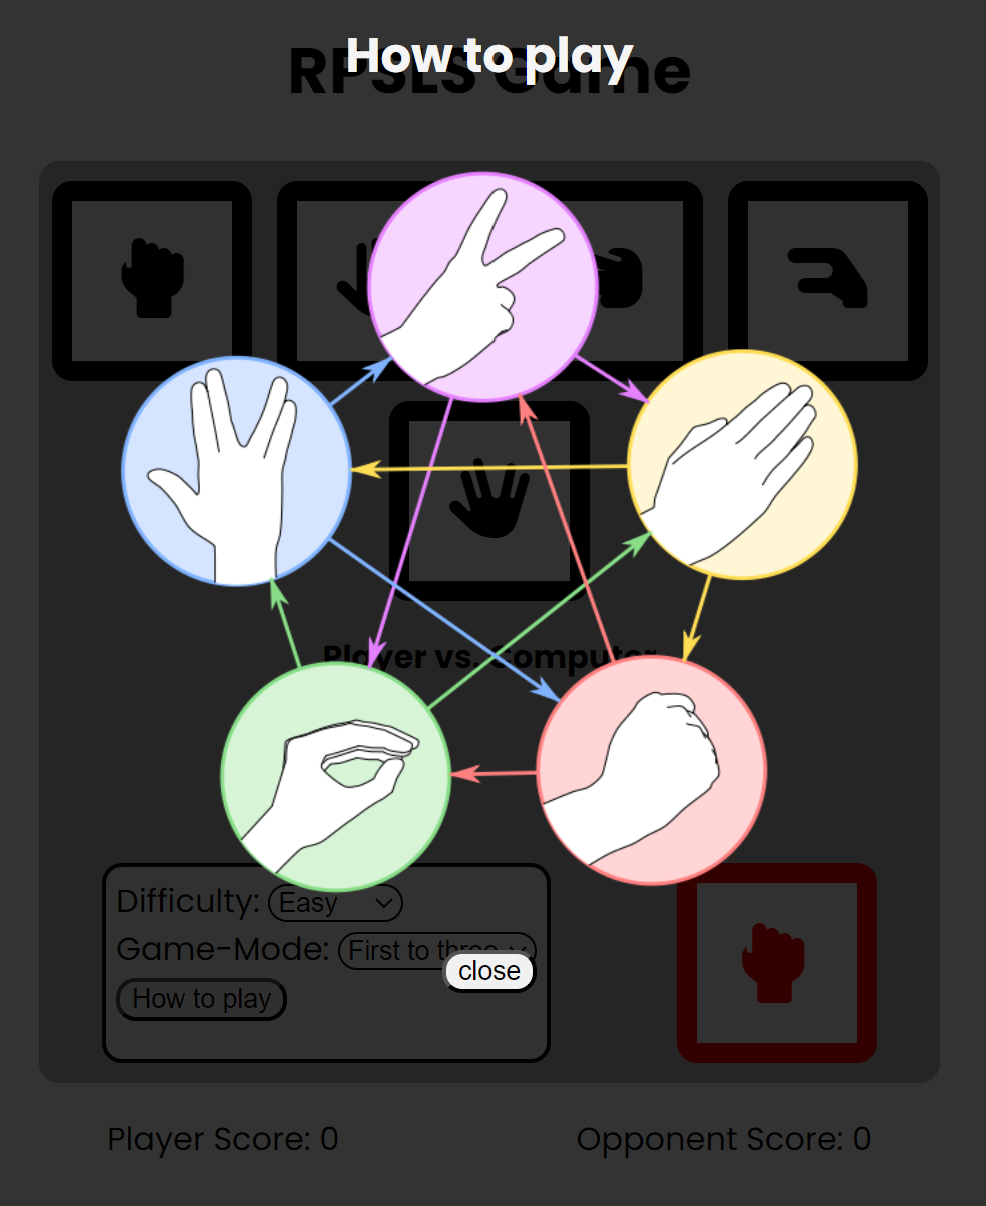
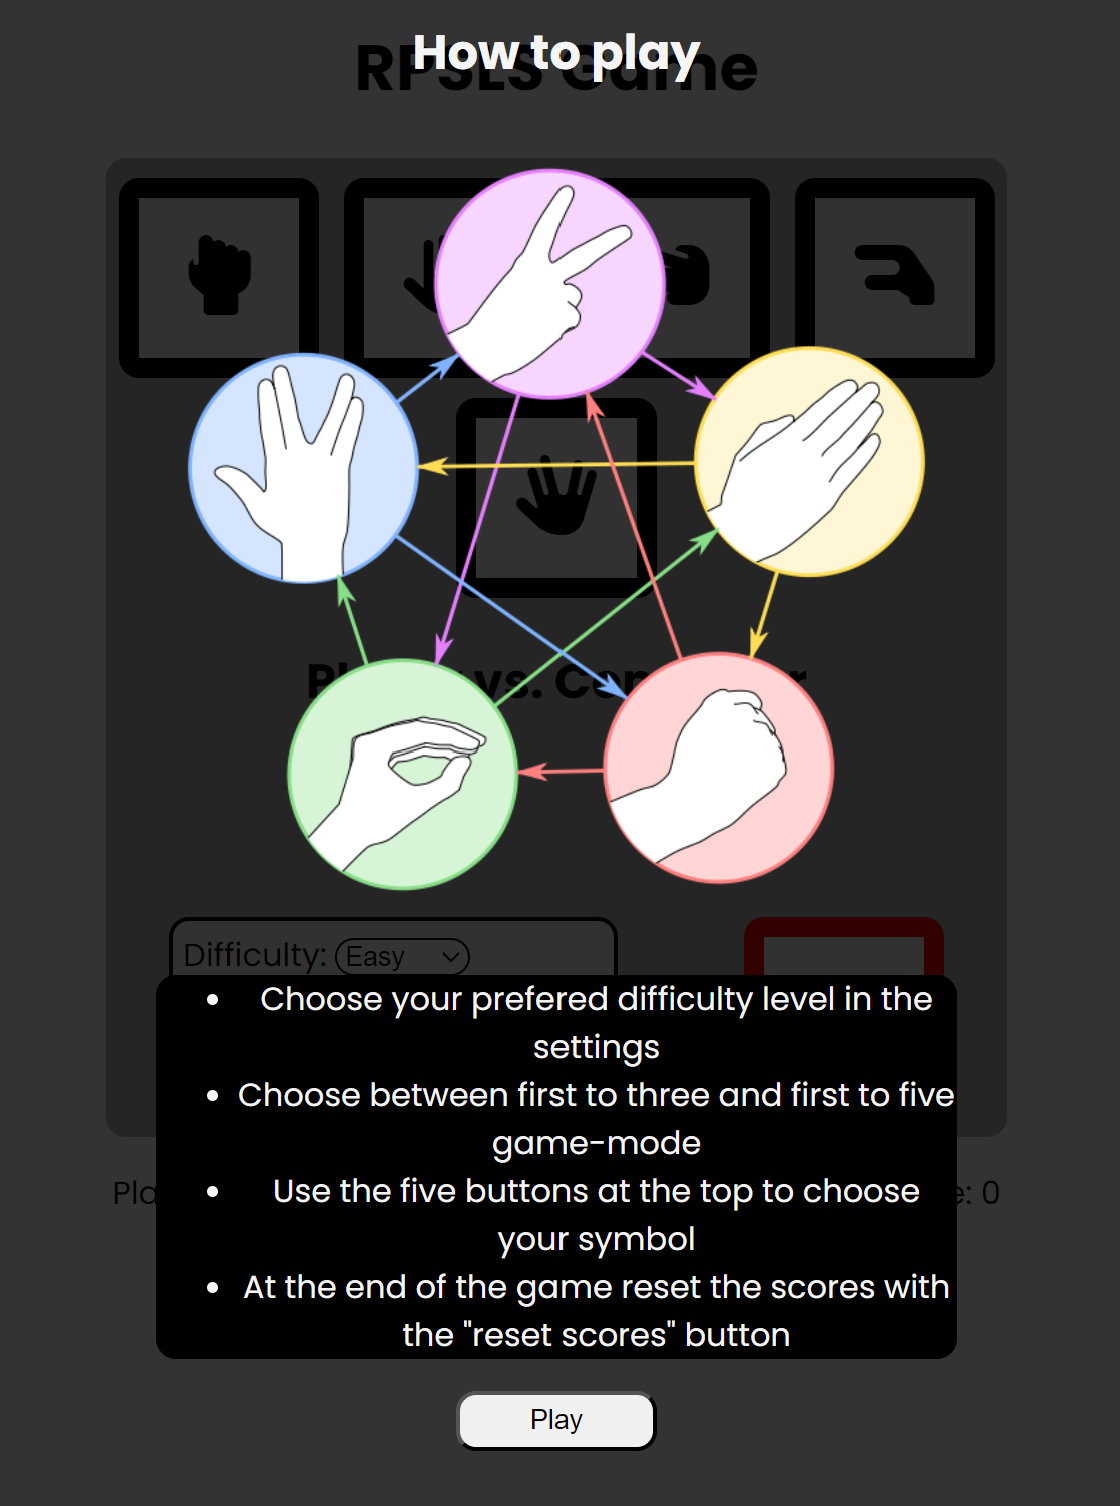
Change some  screenshots in the readme.md

diff --git a/README.md b/README.md
@@ -31,7 +31,7 @@ The [RPSLS Game](https://goldziege.github.io/rps-game/) is a web application var
 #### Settings
 - The settings give the player the opportunity to choose either easy or difficult as the computers difficulty setting.
 - It also features two game-modes. "First to three" and "First to five".
-- There is a "How to play" button in the setttings-area that opens up a modal. The modal shows a picture that tells the player which symbol beats which symbol.
+- There is a "How to play" button in the setttings-area that opens up a modal. The modal shows a picture that tells the player which symbol beats which symbol as well as a short list of instructions on how to play the game.
 
 ![Screenshot of the settings-area](docs/settings.png)
 ![Screenshot of the how to play screen](docs/how-to-play.png)
